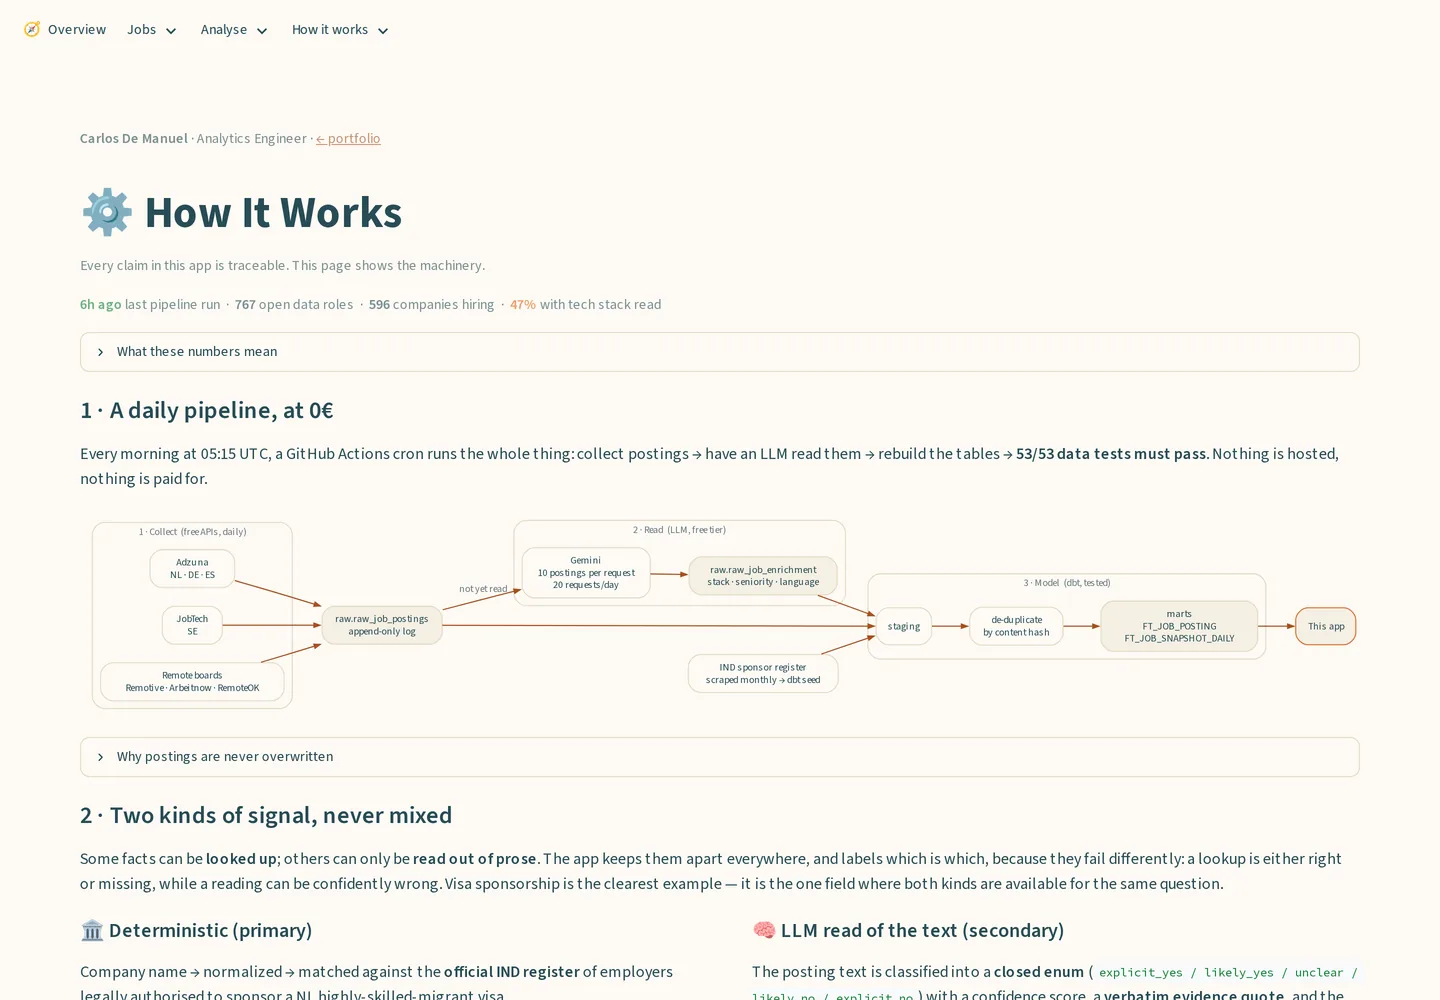
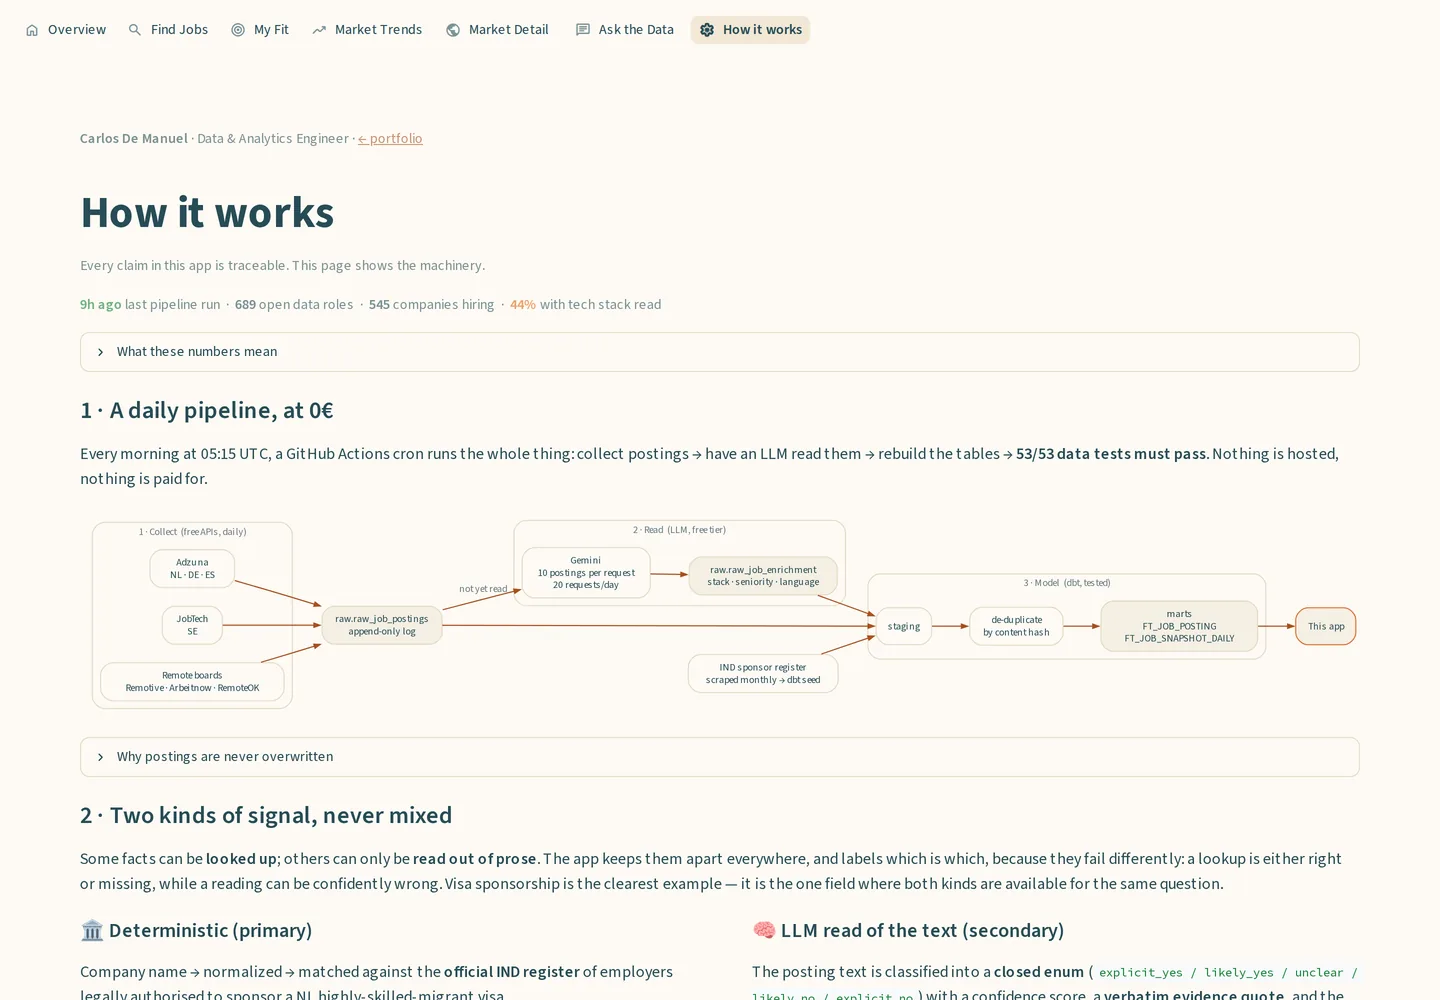
docs(jmi): case-study screens and captions match the redesigned app
The six Job Market Intelligence screens were from 19 Sep, before the
flat nav, the stack-mix Overview and the sampling fixes. Regenerated
from the app's new README screenshots (1440x1000 webp). Alt text and
captions carry the 25 Sep figures, and the Market Trends caption no
longer says "Spain leads on open roles" — that was the 200-a-day sweep
cap, which the app now says out loud.

diff --git a/projects/job-market-intelligence/index.html b/projects/job-market-intelligence/index.html
@@ -130,8 +130,8 @@
                 </section>
 
                 <figure class="shot shot-lead">
-                    <img src="../../images/jmi/home.webp" alt="The app's Overview page: 767 open data roles across five markets, a bar chart of the most-asked-for technologies led by python and sql, and a table of open roles per country with Spain first." width="1440" height="1000" fetchpriority="high" decoding="async">
-                    <figcaption><strong>Overview</strong> — what is open, where, and for which stacks. Every figure on the page is queried at load time from the marts; nothing is hardcoded. All screens here are from the run of 19 Sep 2026; the counts move every morning.</figcaption>
+                    <img src="../../images/jmi/home.webp" alt="The app's Overview page: 689 open data roles and 357 new in the last week, a heatmap of what each market's stack mix asks for with Spain, the Netherlands, Germany and Sweden as columns, the four newest postings as cards, and new roles day by day." width="1440" height="1000" fetchpriority="high" decoding="async">
+                    <figcaption><strong>Overview</strong> — what is open, what each market asks for, what just landed. The heatmap compares each market's <em>mix</em>, because the boards are read at different depths and raw counts ranked Sweden. Every figure is queried at load time from the marts. All screens here are from the run of 25 Sep 2026; the counts move every morning.</figcaption>
                 </figure>
 
                 <div class="case-body">
@@ -142,7 +142,7 @@
                         <p>The free tier allows 20 requests a day, so for most of the project's life the model had read only part of the corpus. One rule carried it: <strong>a posting nobody has read says “not yet classified”, never “no match.”</strong> The backlog is clear now, and the rule matters more — only 47% of roles yield a stack, and the reason is no longer the quota.</p>
                         <figure class="shot">
                             <img src="../../images/jmi/my-fit.webp" alt="The My Fit page: skills detected from a pasted CV shown as removable chips, then every open role ranked by the share of its stack the CV already covers, with the matched technologies listed per row." width="1440" height="854" loading="lazy" decoding="async">
-                            <figcaption><strong>My Fit</strong> — the answer the whole pipeline exists to produce: the 363 open roles with a parsed stack, ranked by how much of it you already cover. Pure set arithmetic, no API call. The CV never leaves the browser session.</figcaption>
+                            <figcaption><strong>My Fit</strong> — the answer the whole pipeline exists to produce: the 302 open roles with a parsed stack, ranked by how much of it you already cover. Pure set arithmetic, no API call. The CV never leaves the browser session.</figcaption>
                         </figure>
                     </div>
 
@@ -227,7 +227,7 @@
 <span class="c"># as "not yet classified" until tomorrow's run picks them up.</span></code></pre>
                         </div>
                         <figure class="shot">
-                            <img src="../../images/jmi/market-detail.webp" alt="The Market Detail page on the Netherlands: four KPIs — 178 open roles, 133 companies, 51% of ads written in English, 30% of roles stack-matchable — above a table showing that its single source returns 500-character descriptions yielding 0.60 technologies each." width="1440" height="1000" loading="lazy" decoding="async">
+                            <img src="../../images/jmi/market-detail.webp" alt="The Market Detail page on the Netherlands: four KPIs — 171 open roles, 135 companies, 49% of ads written in English, 30% of roles stack-matchable — above a table showing that its single source returns 500-character descriptions yielding 0.58 technologies each." width="1440" height="1000" loading="lazy" decoding="async">
                             <figcaption><strong>Market Detail</strong> — one market at a time, with <em>how much of it we can actually read</em> promoted to a headline number. Selecting the Netherlands adds the IND cross-reference and its KvK receipts, which is the only place in the app they now appear.</figcaption>
                         </figure>
                     </div>
@@ -255,8 +255,8 @@
                         </div>
                         <p>Model and test counts come from the project's own <code>manifest.json</code>, the sponsor-register size is the row count of the scraped seed, and the market figures are the warehouse's own — nothing here is typed from memory.</p>
                         <figure class="shot">
-                            <img src="../../images/jmi/market-trends.webp" alt="The Market Trends page: open roles per country with Spain first, each row showing the share of its ads written in English, and below it the leading technologies plotted over time." width="1440" height="1000" loading="lazy" decoding="async">
-                            <figcaption><strong>Market Trends</strong> — volume and language are different questions, so the country table carries both. Spain leads on open roles, which is why describing this as a Netherlands project would be wrong.</figcaption>
+                            <img src="../../images/jmi/market-trends.webp" alt="The Market Trends page: open roles per country, each row showing the share of its ads written in English, a note that the volumes are sampled, and below it the stack ranking with every market weighted equally." width="1440" height="1000" loading="lazy" decoding="async">
+                            <figcaption><strong>Market Trends</strong> — volume and language are different questions, so the country table carries both. The volumes are sampled — each Adzuna market is read up to 200 postings a day — so the page says so and points at the English share, the comparison that holds at any sample size.</figcaption>
                         </figure>
                     </div>
 
